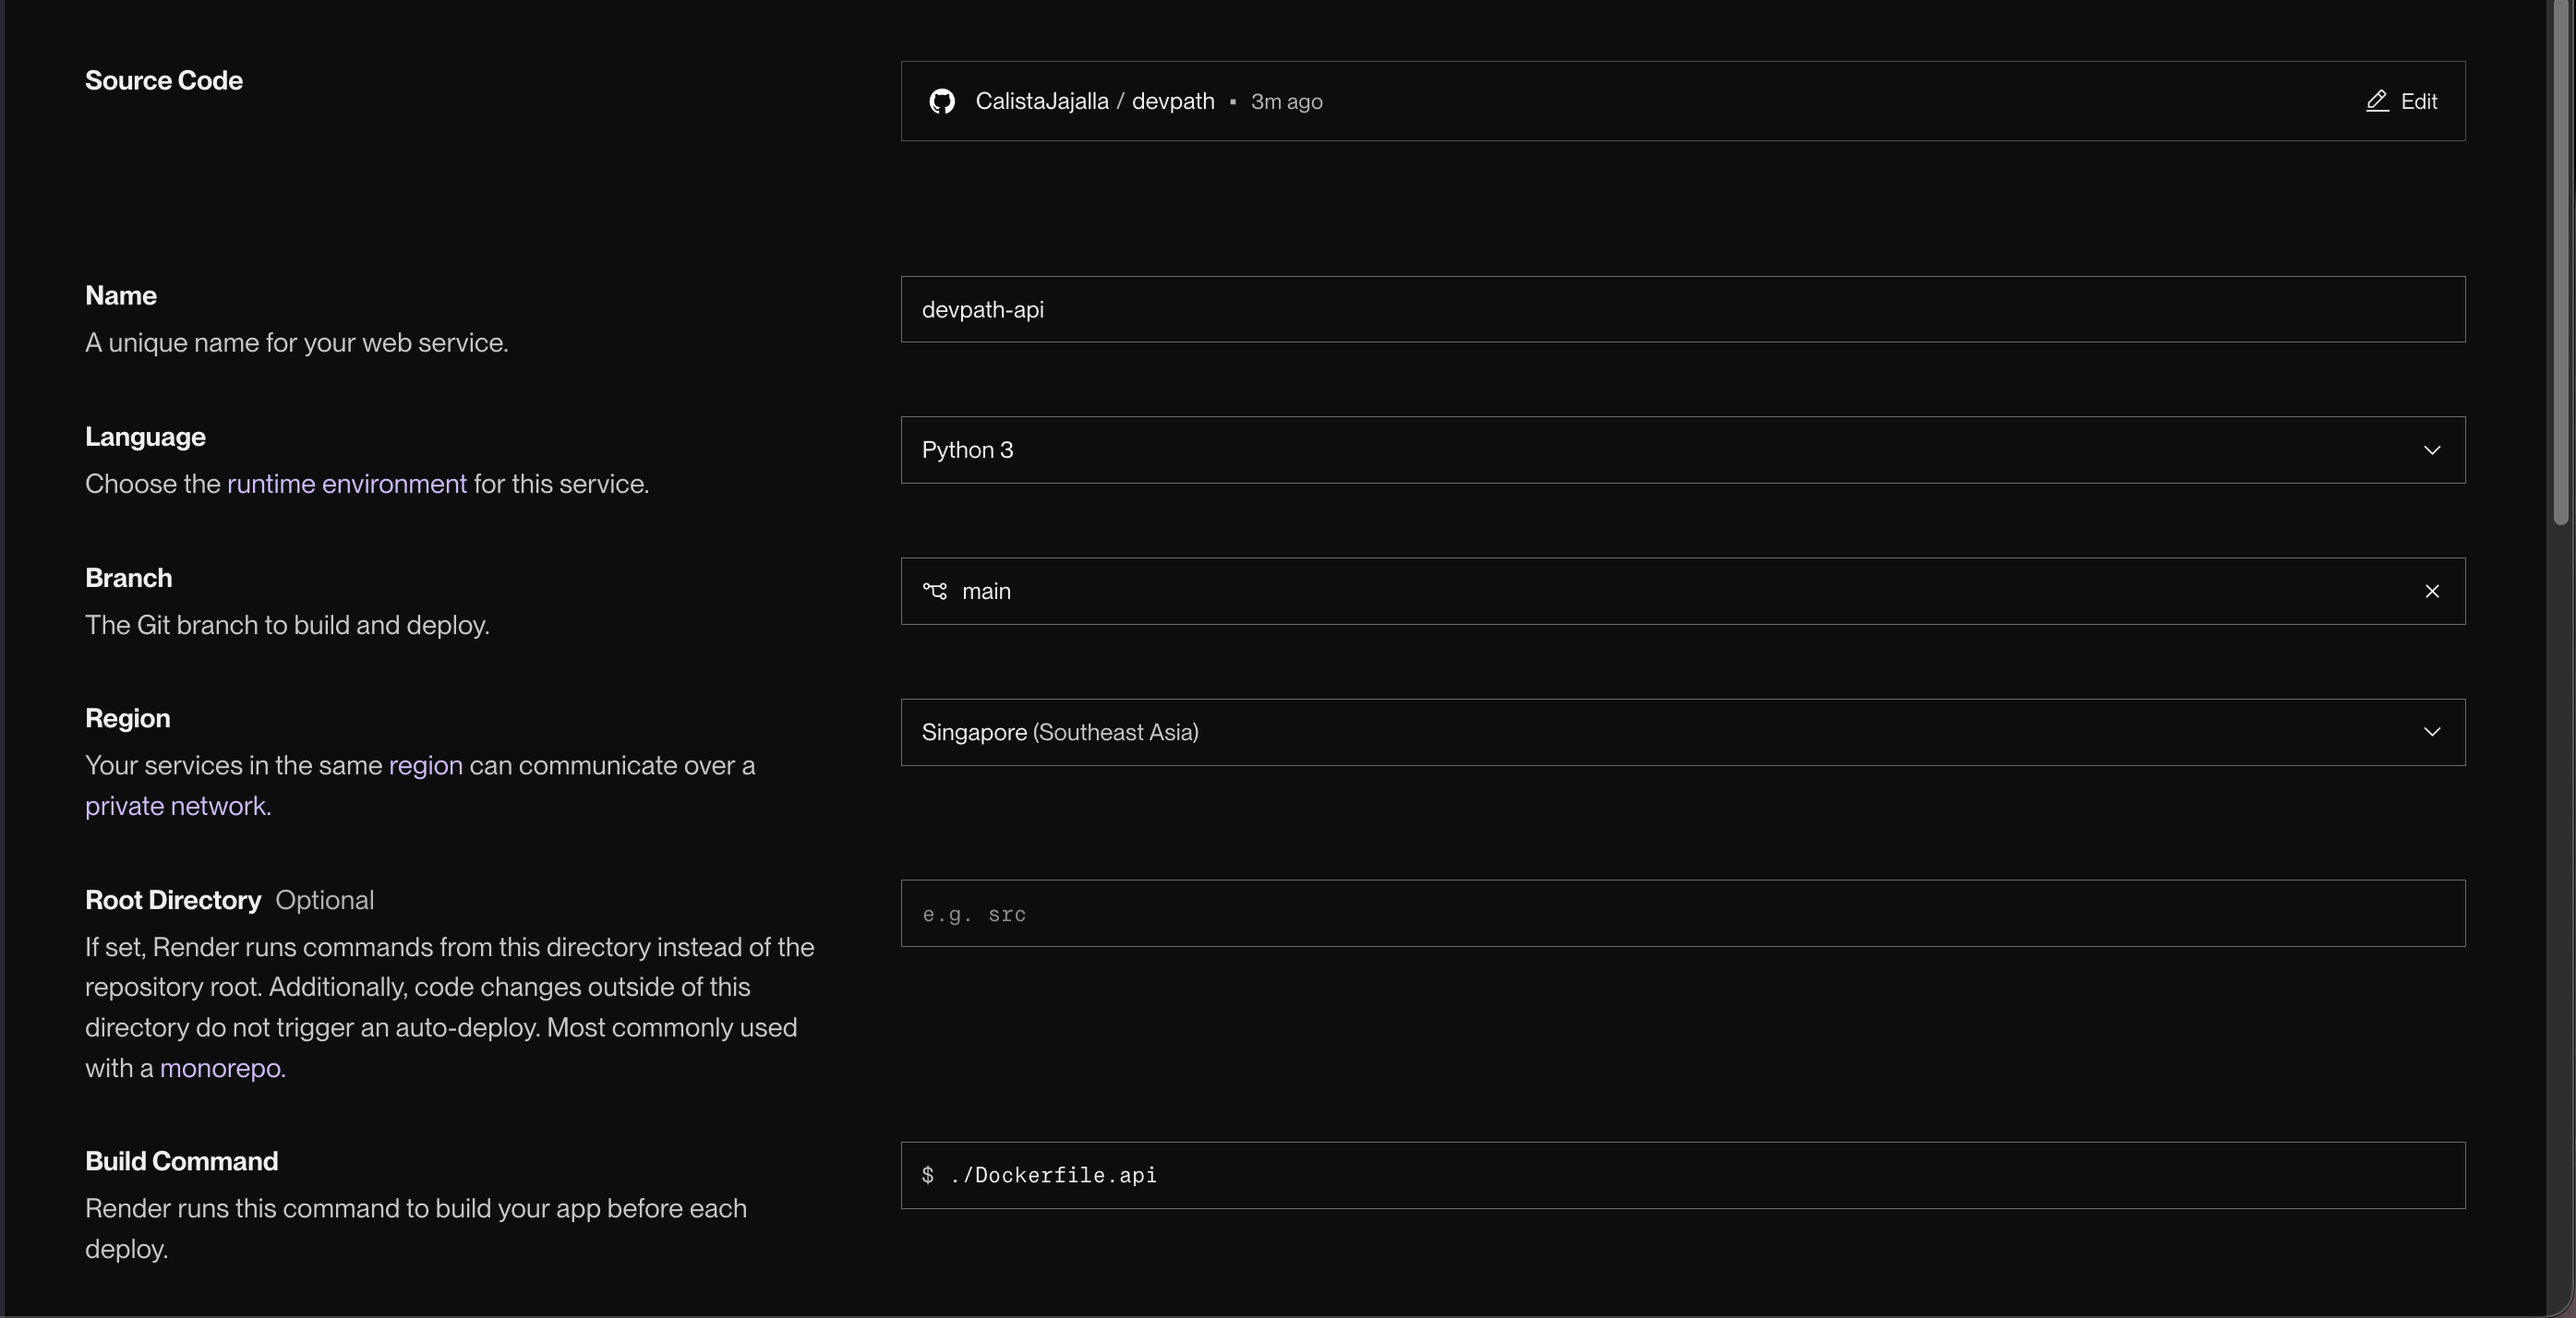
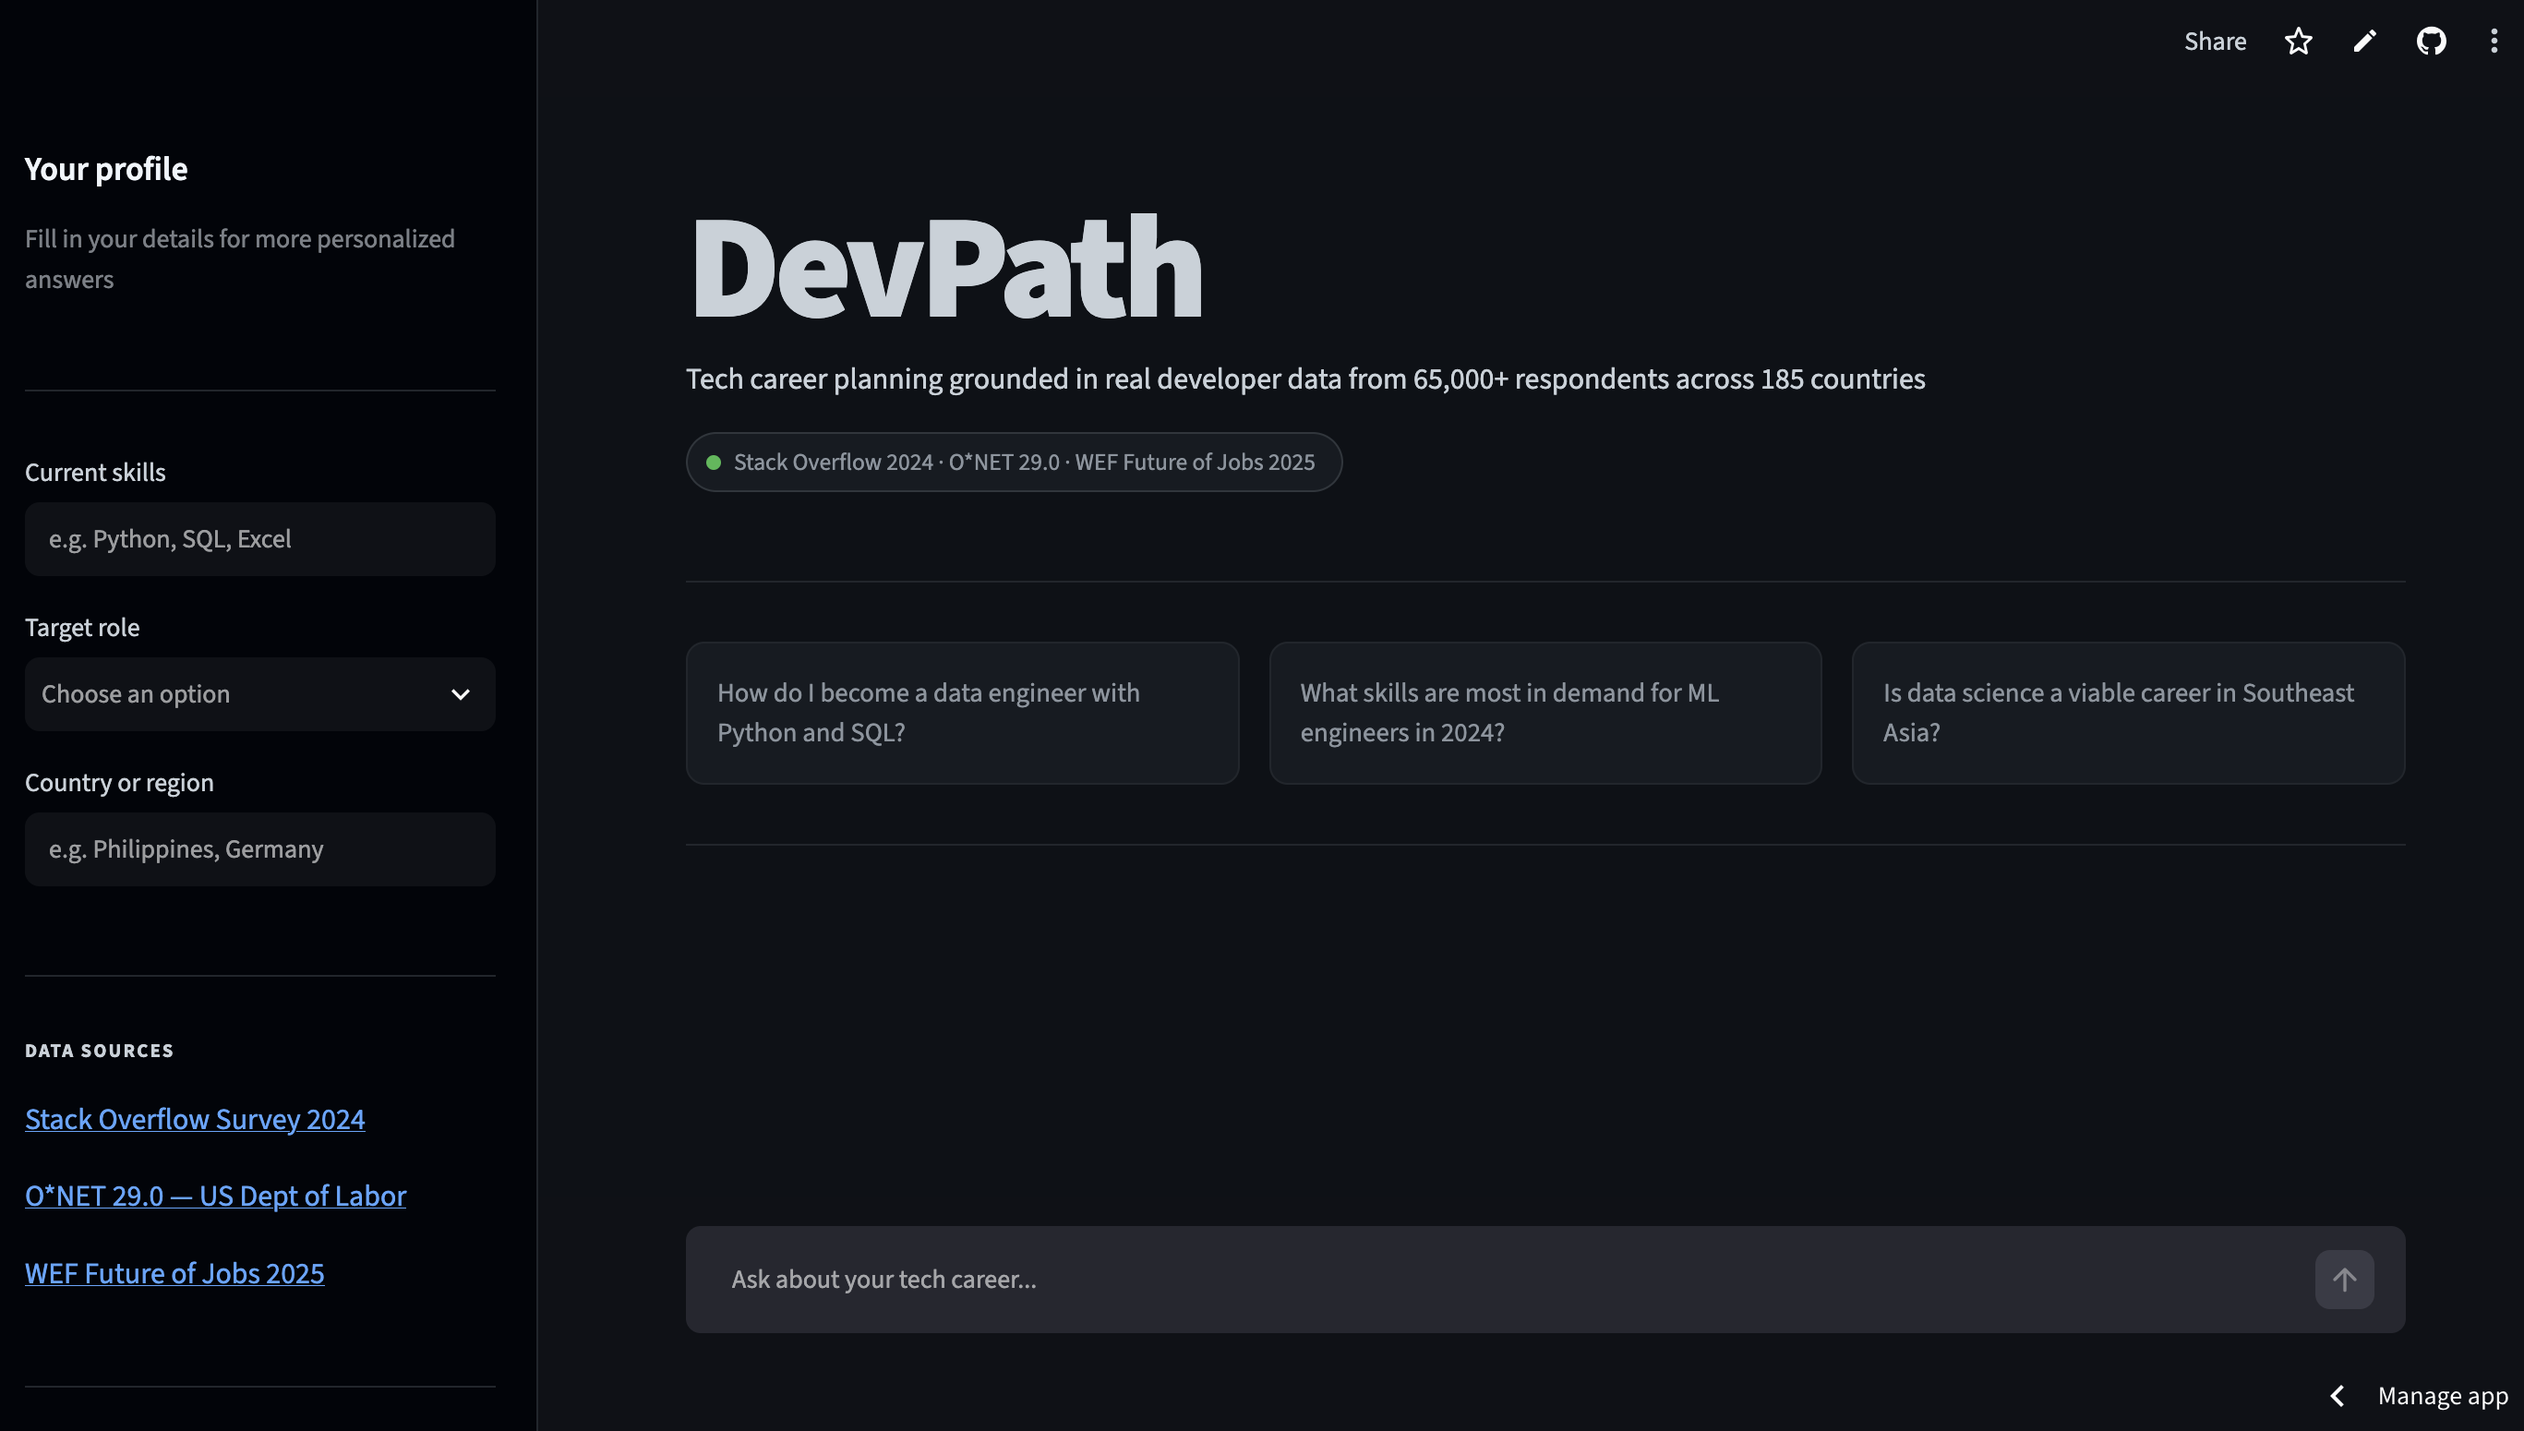
Add demo GIF, updated title image, README

diff --git a/README.md b/README.md
@@ -28,7 +28,7 @@ DevPath provides recommendations backed by real developer survey data, official 
 
 ## Demo
 
-![Demo Vid](media/web-demo.mov)
+![DevPath Demo](media/demo.gif)
 
 Try asking:
 - *"I know Python and SQL. How do I become a data engineer?"*
